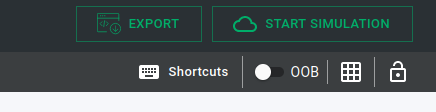
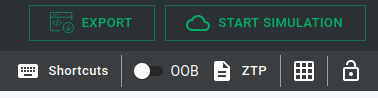
updating docs for ZTP functionality

diff --git a/content/guides/nvidia-air/Custom-Topology.md b/content/guides/nvidia-air/Custom-Topology.md
@@ -72,6 +72,26 @@ To connect two nodes together, click a port on one node and drag it to the port 
 
 {{<img src="/images/guides/nvidia-air/CustomTopology_Link.png" width="800px">}}
 
+### ZTP Script
+
+A custom ZTP script can be included as part of the network design. This ZTP script will be copied, exactly as pasted into the text box, onto the `oob-mgmt-server` during simulation creation. Any network node making a ZTP request on the OOB management  network will have access to this ZTP script through a DHCP server and WWW server running on the `oob-mgmt-server`.
+
+To upload a ZTP script, click the ZTP script button in the top right of the canvas:
+
+{{<img src="/images/guides/nvidia-air/ZTP.png" width="500px">}}
+
+This will open up a popup window to put in the ZTP script. The popup window will already be populated with a default script. The default script is designed as a guide to implement common ZTP features on Cumulus Linux, including:
+
+* Disable password expirey
+* Make `cumulus` user passwordless sudo
+* Download SSH keys for key based SSH
+
+{{<img src="/images/guides/nvidia-air/ZTPPopup.png" width="800px">}}
+
+Once a ZTP script is applied, the ZTP button will change colors from grey to green, indicating that ZTP is now active on your `oob-mgmt-server`.
+
+{{<img src="/images/guides/nvidia-air/ZTPActive.png" width="500px">}}
+
 ## Build a Custom Topology
 
 To build a custom topology, choose one of these two options:
